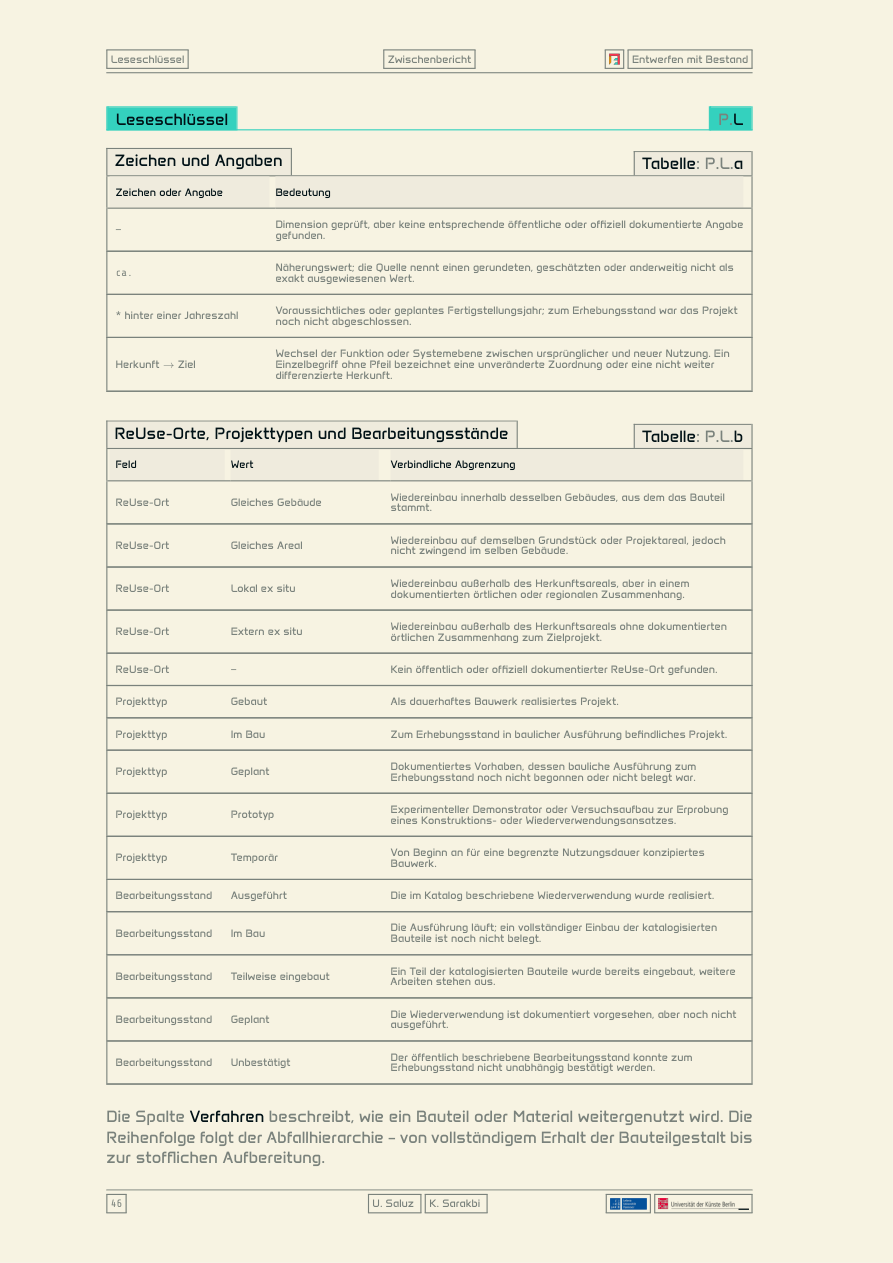
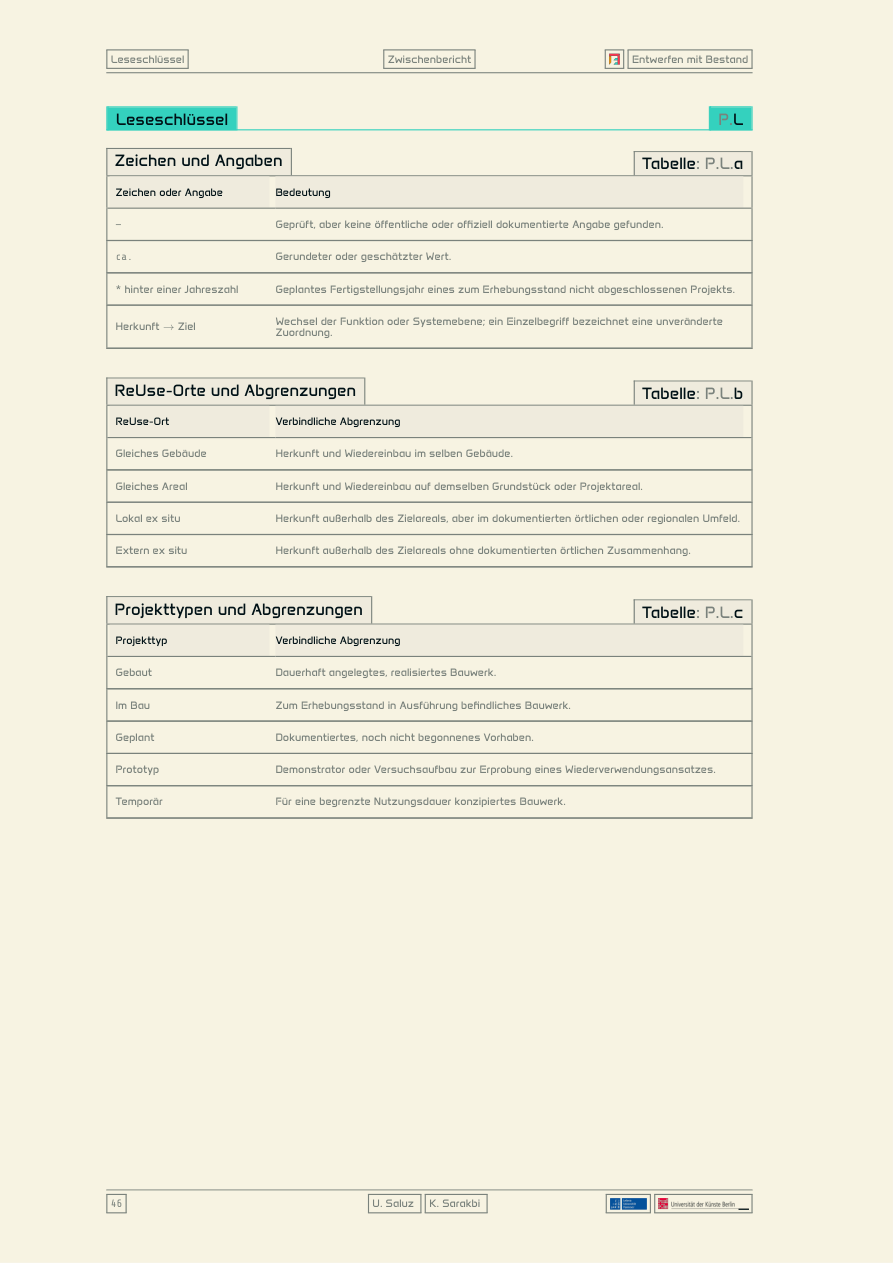
🐳kinan🎆26🌙06☀04 Zwischenbericht

Changed region(s): [[0.1209, 0.1544, 0.8466, 0.9264]]

diff --git a/mit-bestand/bericht/zwischenbericht/anhang/projekte.tex b/mit-bestand/bericht/zwischenbericht/anhang/projekte.tex
@@ -496,38 +496,43 @@ Der Katalog dokumentiert realisierte und geplante ReUse-Projekte auf Grundlage e
 \appendixsection[L]{Leseschlüssel}
 
 \SemioTableLong{Zeichen und Angaben}{0.25,0.75}{Zeichen oder Angabe & Bedeutung}{%
-  \SemioTableRow{\texttt{—} & Dimension geprüft, aber keine entsprechende öffentliche oder offiziell dokumentierte Angabe gefunden.}
-  \SemioTableRow{\texttt{ca.} & Näherungswert; die Quelle nennt einen gerundeten, geschätzten oder anderweitig nicht als exakt ausgewiesenen Wert.}
-  \SemioTableRow{\texttt{*} hinter einer Jahreszahl & Voraussichtliches oder geplantes Fertigstellungsjahr; zum Erhebungsstand war das Projekt noch nicht abgeschlossen.}
-  \SemioTableRow{Herkunft $\to$ Ziel & Wechsel der Funktion oder Systemebene zwischen ursprünglicher und neuer Nutzung. Ein Einzelbegriff ohne Pfeil bezeichnet eine unveränderte Zuordnung oder eine nicht weiter differenzierte Herkunft.}
+  \SemioTableRow{\texttt{—} & Geprüft, aber keine öffentliche oder offiziell dokumentierte Angabe gefunden.}
+  \SemioTableRow{\texttt{ca.} & Gerundeter oder geschätzter Wert.}
+  \SemioTableRow{\texttt{*} hinter einer Jahreszahl & Geplantes Fertigstellungsjahr eines zum Erhebungsstand nicht abgeschlossenen Projekts.}
+  \SemioTableRow{Herkunft $\to$ Ziel & Wechsel der Funktion oder Systemebene; ein Einzelbegriff bezeichnet eine unveränderte Zuordnung.}
 }
 
-\SemioTableLong{ReUse-Orte, Projekttypen und Bearbeitungsstände}{0.18,0.25,0.57}{Feld & Wert & Verbindliche Abgrenzung}{%
-  \SemioTableRow{ReUse-Ort & Gleiches Gebäude & Wiedereinbau innerhalb desselben Gebäudes, aus dem das Bauteil stammt.}
-  \SemioTableRow{ReUse-Ort & Gleiches Areal & Wiedereinbau auf demselben Grundstück oder Projektareal, jedoch nicht zwingend im selben Gebäude.}
-  \SemioTableRow{ReUse-Ort & Lokal ex situ & Wiedereinbau außerhalb des Herkunftsareals, aber in einem dokumentierten örtlichen oder regionalen Zusammenhang.}
-  \SemioTableRow{ReUse-Ort & Extern ex situ & Wiedereinbau außerhalb des Herkunftsareals ohne dokumentierten örtlichen Zusammenhang zum Zielprojekt.}
-  \SemioTableRow{ReUse-Ort & \texttt{—} & Kein öffentlich oder offiziell dokumentierter ReUse-Ort gefunden.}
-  \SemioTableRow{Projekttyp & Gebaut & Als dauerhaftes Bauwerk realisiertes Projekt.}
-  \SemioTableRow{Projekttyp & Im Bau & Zum Erhebungsstand in baulicher Ausführung befindliches Projekt.}
-  \SemioTableRow{Projekttyp & Geplant & Dokumentiertes Vorhaben, dessen bauliche Ausführung zum Erhebungsstand noch nicht begonnen oder nicht belegt war.}
-  \SemioTableRow{Projekttyp & Prototyp & Experimenteller Demonstrator oder Versuchsaufbau zur Erprobung eines Konstruktions- oder Wiederverwendungsansatzes.}
-  \SemioTableRow{Projekttyp & Temporär & Von Beginn an für eine begrenzte Nutzungsdauer konzipiertes Bauwerk.}
-  \SemioTableRow{Bearbeitungsstand & Ausgeführt & Die im Katalog beschriebene Wiederverwendung wurde realisiert.}
-  \SemioTableRow{Bearbeitungsstand & Im Bau & Die Ausführung läuft; ein vollständiger Einbau der katalogisierten Bauteile ist noch nicht belegt.}
-  \SemioTableRow{Bearbeitungsstand & Teilweise eingebaut & Ein Teil der katalogisierten Bauteile wurde bereits eingebaut, weitere Arbeiten stehen aus.}
-  \SemioTableRow{Bearbeitungsstand & Geplant & Die Wiederverwendung ist dokumentiert vorgesehen, aber noch nicht ausgeführt.}
-  \SemioTableRow{Bearbeitungsstand & Unbestätigt & Der öffentlich beschriebene Bearbeitungsstand konnte zum Erhebungsstand nicht unabhängig bestätigt werden.}
+\SemioTableLong{ReUse-Orte und Abgrenzungen}{0.25,0.75}{ReUse-Ort & Verbindliche Abgrenzung}{%
+  \SemioTableRow{Gleiches Gebäude & Herkunft und Wiedereinbau im selben Gebäude.}
+  \SemioTableRow{Gleiches Areal & Herkunft und Wiedereinbau auf demselben Grundstück oder Projektareal.}
+  \SemioTableRow{Lokal ex situ & Herkunft außerhalb des Zielareals, aber im dokumentierten örtlichen oder regionalen Umfeld.}
+  \SemioTableRow{Extern ex situ & Herkunft außerhalb des Zielareals ohne dokumentierten örtlichen Zusammenhang.}
 }
 
-Die Spalte \emph{Verfahren} beschreibt, wie ein Bauteil oder Material weitergenutzt wird. Die Reihenfolge folgt der Abfallhierarchie -- von vollständigem Erhalt der Bauteilgestalt bis zur stofflichen Aufbereitung.
+\SemioTableLong{Projekttypen und Abgrenzungen}{0.25,0.75}{Projekttyp & Verbindliche Abgrenzung}{%
+  \SemioTableRow{Gebaut & Dauerhaft angelegtes, realisiertes Bauwerk.}
+  \SemioTableRow{Im Bau & Zum Erhebungsstand in Ausführung befindliches Bauwerk.}
+  \SemioTableRow{Geplant & Dokumentiertes, noch nicht begonnenes Vorhaben.}
+  \SemioTableRow{Prototyp & Demonstrator oder Versuchsaufbau zur Erprobung eines Wiederverwendungsansatzes.}
+  \SemioTableRow{Temporär & Für eine begrenzte Nutzungsdauer konzipiertes Bauwerk.}
+}
+
+\clearpage
+
+\SemioTableLong{Bearbeitungsstände und Abgrenzungen}{0.25,0.75}{Bearbeitungsstand & Verbindliche Abgrenzung}{%
+  \SemioTableRow{Ausgeführt & Die dokumentierte Wiederverwendung wurde realisiert.}
+  \SemioTableRow{Im Bau & Die Ausführung läuft; der vollständige Einbau ist noch nicht belegt.}
+  \SemioTableRow{Teilweise eingebaut & Ein Teil der dokumentierten Bauteile ist eingebaut.}
+  \SemioTableRow{Geplant & Die Wiederverwendung ist vorgesehen, aber noch nicht ausgeführt.}
+  \SemioTableRow{Unbestätigt & Der veröffentlichte Bearbeitungsstand konnte nicht unabhängig bestätigt werden.}
+}
 
 \SemioTableLong{Verfahren und Abgrenzungen}{0.25,0.75}{Verfahren & Verbindliche Abgrenzung}{%
-  \SemioTableRow{Direkte Wieder\-verwendung & Bauteil wird unverändert und in gleicher Funktion erneut eingebaut; Form und gebundene Energie bleiben vollständig erhalten. Höchste Zirkularitätsstufe.}
-  \SemioTableRow{Angepasste Wieder\-verwendung & Bauteil wird für dieselbe oder eine verwandte Funktion wiederverwendet, jedoch mit bearbeitendem Eingriff wie Zuschnitt, Aufarbeitung oder statischer Ertüchtigung.}
-  \SemioTableRow{Umnutzung & Bauteil bleibt als Objekt erhalten, erhält aber eine neue Funktion; die Gestalt bleibt, der Verwendungszweck ändert sich.}
-  \SemioTableRow{Reststoff\SemioSlash{}Restposten\-nutzung & Verbau von Überschuss-, Verschnitt- oder Restposten\-material aus Produktion oder Lager, das andernfalls Abfall würde; kein Rückbau eines bestehenden Bauteils.}
-  \SemioTableRow{Recycling & Stoffliche Aufbereitung durch Einschmelzen, Brechen oder Pressen zu neuem Material; die Bauteilgestalt geht verloren. Niedrigste im Katalog erfasste Stufe.}
+  \SemioTableRow{Direkte Wieder\-verwendung & Unveränderter Wiedereinbau in gleicher Funktion.}
+  \SemioTableRow{Angepasste Wieder\-verwendung & Wiedereinbau in gleicher oder verwandter Funktion nach Bearbeitung oder Ertüchtigung.}
+  \SemioTableRow{Umnutzung & Erhalt des Bauteils bei Wechsel der Funktion.}
+  \SemioTableRow{Reststoff\SemioSlash{}Restposten\-nutzung & Verwendung von Überschuss-, Verschnitt- oder Lagermaterial; kein rückgebautes Bauteil.}
+  \SemioTableRow{Recycling & Stoffliche Aufbereitung zu neuem Material; die Bauteilgestalt geht verloren.}
 }
 
 %#endregion
